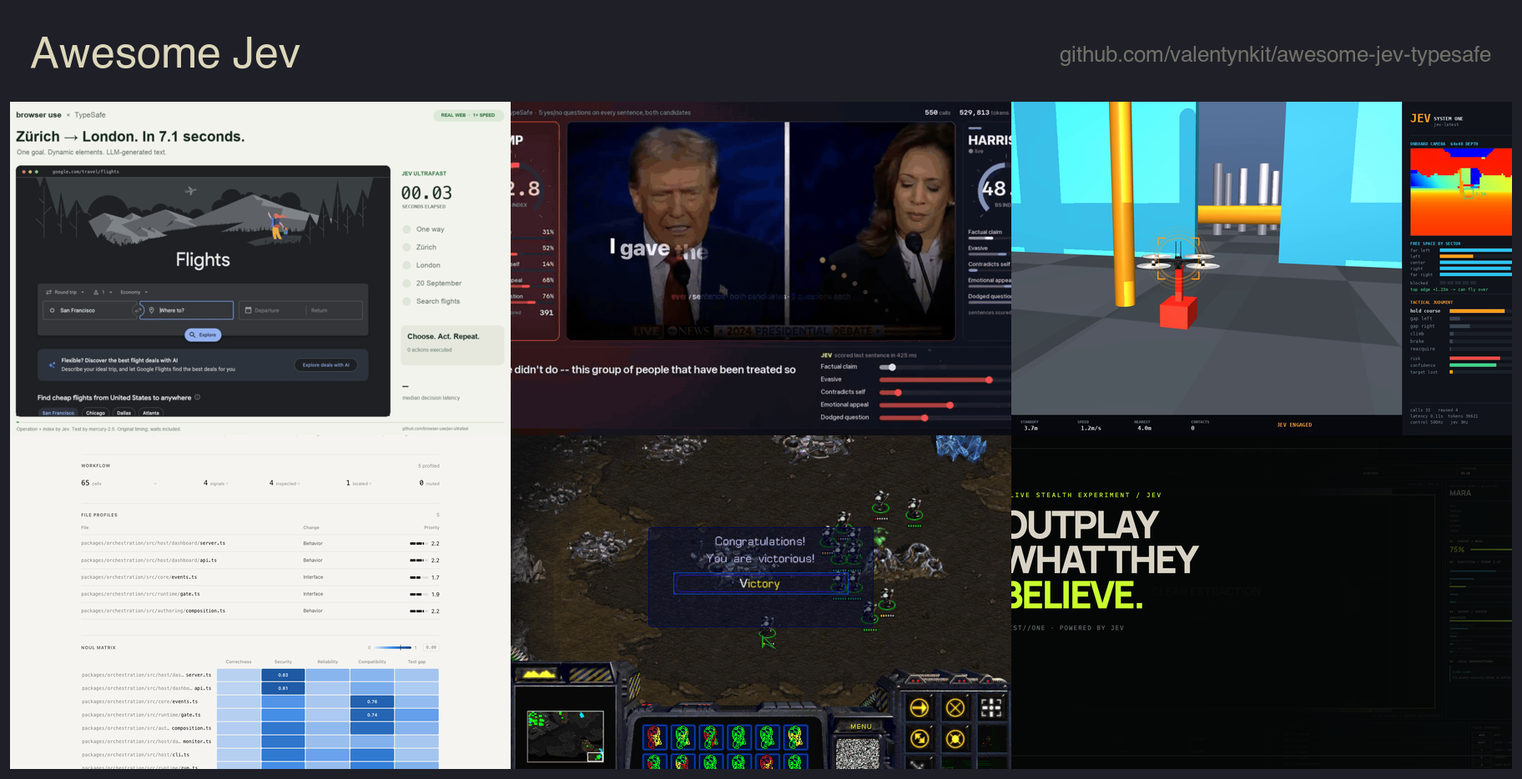
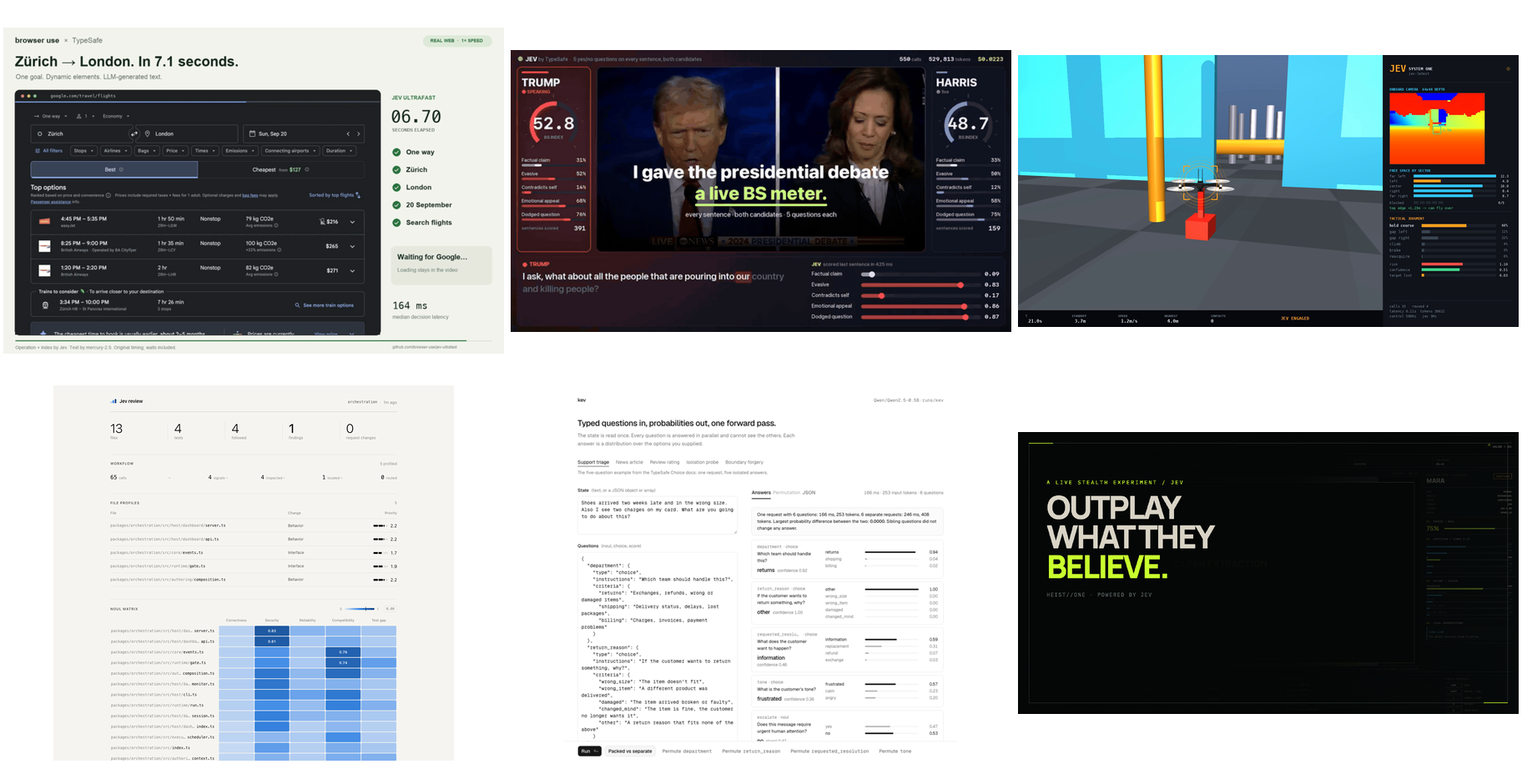
Add 60 entries from a third sweep, pin six more sections, refresh the hero
GitHub search, seventeen other lists, and the web since launch day. Notable
arrivals: kev, simple-jev and three more open replicas; tax-doc-classifier,
perch, jev-browser-use, vexjoy-agent; OpenRouter, Netlify and LiteLLM as
gateways; the archerhume architecture probe and the primeline pre-registered
test. Anything that met contributing.md went in, including the low-star
entries that five or more lists agree on.

Three repos moved: BunsDev's playground to the TypeSafeAI org, Jevbridge to
tacticocc, got-jev to jev-got. Nothing listed is dead or archived.

Routing, Data and ops, Safety, Applications, Finance and Command line get a
still each, all MIT or Apache, listed in media/sources.md. The hero swaps the
static StarCraft screen for the kev playground.

diff --git a/readme.md b/readme.md
@@ -12,7 +12,7 @@ Jev does not write. You hand it some state and a list of typed questions, and it
   </tr>
   <tr>
     <td align="center"><a href="https://github.com/devagrawal09/jev-review"><img src="media/jev-review.png" width="300" alt="jev-review dashboard"><br><sub>jev-review</sub></a></td>
-    <td align="center"><a href="https://github.com/phyous/tsai-sc"><img src="media/tsai-sc.png" width="300" alt="StarCraft victory screen"><br><sub>tsai-sc</sub></a></td>
+    <td align="center"><a href="https://github.com/jaredpalmer/kev"><img src="media/kev.png" width="300" alt="kev playground: six typed questions answered in one forward pass on a laptop"><br><sub>kev</sub></a></td>
     <td align="center"><a href="https://github.com/AbdelStark/heist-one"><img src="media/heist-one.png" width="300" alt="heist-one stealth game"><br><sub>heist-one</sub></a></td>
   </tr>
 </table>
@@ -63,6 +63,7 @@ Copied from the vendor's pages on 2026-09-18; every page is linked under Start h
 - Limits: 250,000 tokens per second, 1,200 requests per minute, 32k tokens per request, all subject to change during early access.
 - Latency: 70 to 500 ms end to end, vendor reported.
 - Training: RLCD, reinforcement learning for calibrated decisions. Weights and architecture are unpublished.
+- Also served by Vercel AI Gateway, Cloudflare Workers AI, OpenRouter (beta), and Netlify AI Gateway, none of which need the TypeSafe waitlist.
 
 ## Know before you build
 
@@ -94,6 +95,10 @@ Copied from the vendor's pages on 2026-09-18; every page is linked under Start h
 - [Console](https://console.typesafe.ai/) - Waitlist, API keys, and usage.
 - [Jev on Vercel AI Gateway](https://vercel.com/ai-gateway/models/jev) - Model id `typesafe-ai/jev`, billed through Vercel, no TypeSafe waitlist.
 - [Jev on Cloudflare Workers AI](https://developers.cloudflare.com/ai/models/typesafe/jev/) - Call `typesafe/jev` from a Worker through `env.AI.run`.
+- [Jev on OpenRouter](https://openrouter.ai/typesafe/jev-1.13) - Beta listing on the general-purpose gateway, model id `typesafe/jev-1.13`, billed on your OpenRouter key.
+- [Jev-verified cascade](https://openrouter.ai/docs/cookbook/evaluate-and-optimize/jev-verified-cascade) - OpenRouter cookbook: a cheap model answers, Jev checks the answer, only the failures escalate.
+- [Jev on Netlify AI Gateway](https://www.netlify.com/changelog/typesafe-jev-ai-gateway/) - Zero-config access from Netlify Functions, no separate TypeSafe key.
+- [LiteLLM pass-through](https://docs.litellm.ai/docs/pass_through/typesafe) - Route the System One endpoint through a LiteLLM proxy for key management and cost tracking; no streaming, since TypeSafe has none.
 - [Discord](https://discord.gg/typesafe) - Official server; builder demos live in the show-and-tell channel.
 
 ## Official SDKs and framework support
@@ -123,6 +128,10 @@ Copied from the vendor's pages on 2026-09-18; every page is linked under Start h
 - [limpet](https://github.com/noplan-inc/limpet) - A Stop hook that keeps the agent from stopping too early, judged against plain-language rules.
 - [jevwire](https://github.com/Brainwires/jevwire) - MCP server, embeddable decision model, and an escalate-only plugin that can make the harness stricter but never looser.
 - [jev-code](https://github.com/devagrawal09/jev-code) - Command-line toolkit that coding agents hand judgment-heavy work to, one typed Jev workflow per request.
+- [vexjoy-agent](https://github.com/notque/vexjoy-agent) - Agent toolkit whose `/d` command picks the specialist agent, skill, and pipeline with one Jev call, plus an optional Jev auto-compact plugin.
+- [save-token-jev](https://github.com/IAmUnbounded/save-token-jev-clean) - Compaction that asks Jev which tool calls still matter and keeps the rest verbatim, with adapters for Claude Code, Codex, OpenCode, and raw API transcripts.
+- [jev-pruner](https://github.com/tamaratran/jev-pruner) - Trims long Bash output with Jev after the command runs and before the model sees it; short output, errors, and structured formats pass untouched.
+- [jev-rules](https://github.com/EliaAlberti/jev-rules) - Scores your standing rules against each prompt and delivers only the ones that apply, once per session.
 
 ### Codex
 
@@ -139,6 +148,8 @@ Copied from the vendor's pages on 2026-09-18; every page is linked under Start h
 - [bicameral](https://github.com/AbdelStark/bicameral) - Hybrid harness for Pi: an LLM writes the code, Jev reflexes gate every call as allow, confirm, block, warn, or steer.
 - [pi-quiet-ask](https://github.com/HyunjunJeon/pi-quiet-ask) - Jev as the Pi coding agent's quiet decision layer.
 - [pi-typesafe-jev](https://github.com/legacybridge-tech/pi-typesafe-jev) - Pi extension exposing Jev judgments as five Pi tools.
+- [pi-typesafe](https://github.com/DevMortimer/pi-typesafe) - Batched evaluation tool, terminal playground, and a typed API for Pi extension authors.
+- [pi-heed](https://github.com/Nyarlathoteppppp/pi-heed) - Checks every side-effecting tool call against what you said earlier in the session, so "review only" still holds after compaction.
 
 ### Hermes
 
@@ -157,7 +168,8 @@ Copied from the vendor's pages on 2026-09-18; every page is linked under Start h
 - [jev-mcp by jkudish](https://github.com/jkudish/jev-mcp) - The first MCP server for Jev, and still the most linked.
 - [typesafe-mcp](https://github.com/itsmostafa/typesafe-mcp) - Go MCP connector.
 - [jev-mcp by blakestone-x](https://github.com/blakestone-x/jev-mcp) - Classify, score, check, match, and screen, with confidence on every answer.
-- [Jevbridge](https://github.com/gamesonrblx/Jevbridge) - ACP and MCP adapter that pairs Jev with any LLM for computer use and typed decisions.
+- [Jevbridge](https://github.com/tacticocc/Jevbridge) - ACP and MCP adapter that pairs Jev with any LLM for computer use and typed decisions.
+- [jev-eval-mcp](https://github.com/BYK/jev-mcp) - Eval-first MCP server: prototype a question, map it over many items, then measure variants against labeled examples with a threshold sweep.
 
 ### Skills for writing Jev code
 
@@ -165,6 +177,7 @@ Copied from the vendor's pages on 2026-09-18; every page is linked under Start h
 - [jev-system-architect](https://github.com/samtay32/jev-system-architect) - Finds the fuzzy judgment in a system and turns it into small Choice, Score, and Noul primitives.
 - [jev-judgment](https://github.com/HyunjunJeon/jev-judgment) - Sends a coding agent's closed judgments to Jev instead of the chat model.
 - [skills by fabricioctelles](https://github.com/fabricioctelles/skills) - Agent-skill directory that can score subjective evaluation criteria with Jev.
+- [Augustus](https://github.com/24601/Augustus) - Skill for deciding where a typed judgment belongs at all and what stays in code; a companion to the official skill, not a replacement.
 
 ## Browser and computer use
 
@@ -179,6 +192,9 @@ Copied from the vendor's pages on 2026-09-18; every page is linked under Start h
 - [jev-browser by tontoko](https://github.com/tontoko/jev-browser) - One grounded Jev and Playwright core behind a typed SDK, a persistent CLI, and an MCP server.
 - [jev-mobile](https://github.com/friedjof/jev-mobile) - Android sub-agent over USB running observe, normalize, decide, mutate, verify, with Jev deciding.
 - [jev-ego](https://github.com/romaluev/jev-ego) - Browser agent that spends one Jev request per step to pick the action.
+- [jev-browser-use](https://github.com/wy-coliney/jev-browser-use) - Codex skill and plugin where Jev handles navigation, clicks, and scrolling and Codex keeps typing and verification; reports browser steps 5 to 10 times faster.
+- [Jev-cu](https://github.com/Sac-Y/Jev-cu) - Codex computer use where Jev picks the element, action, completion, and risk from on-screen text, no screenshots sent; Chinese readme.
+- [JevScout](https://github.com/hqman/JevScout) - Job-hunting skill that drives Chrome over CDP and has Jev score every link and listing.
 
 ## Open models and replicas
 
@@ -208,6 +224,11 @@ None of these ship TypeSafe's weights. They reproduce the interface, the paralle
 - [von](https://github.com/wfzyx/von) - Non-autoregressive open decision model reporting under 15 ms locally, as a drop-in alternative to Jev.
 - [litjev](https://github.com/zhengxuyu/litjev) - Turns any off-the-shelf LLM into a Jev-style decision layer.
 - [open-jev](https://github.com/JoshuaSP/open-jev) - Typed JSON inference with DiffusionGemma, benchmarked against Jev.
+- [kev](https://github.com/jaredpalmer/kev) - LoRA adapter and readout head on Qwen2.5-0.5B that answers many typed questions in one prefill; trains in under two hours on a MacBook, held-out ECE 0.065, speaks the TypeSafe wire format.
+- [simple-jev](https://github.com/featherless-ai/simple-jev) - Reads next-token logits from any Hugging Face model for choice, rubric, and support questions; public demo API with no key.
+- [OpenJev by razorback16](https://github.com/razorback16/openjev) - Jev-compatible decision server on DiffusionGemma 26B through vLLM, images included, hosted free on [Codiv](https://codiv.ai).
+- [openjev by daseinlabs](https://github.com/daseinlabs/open-jev) - Prefills once and scores every option in one padded pass on Gemma 3 4B with MLX; plays Doom from the terminal in the demo.
+- [jeff by logan-markewich](https://github.com/logan-markewich/jeff) - Self-hosted System One API on the 400M GLiFormer, with benchmarks that say where it trails Jev.
 
 ## Code review and quality
 
@@ -221,14 +242,21 @@ None of these ship TypeSafe's weights. They reproduce the interface, the paralle
 - [commit-miner](https://github.com/devanshbatham/commit-miner) - Classifies commit diffs and messages: bug fixes, security fixes with CWEs, change types.
 - [jev-review-action](https://github.com/fatwang2/jev-review-action) - GitHub Action for submission review and PR classification with Jev, no text-generation model in the loop.
 - [jev-triage](https://github.com/cephalization/jev-triage) - Pulls large repositories and triages their issues with typed Jev questions.
+- [perch](https://github.com/lakeday-org/perch) - Semantic linting: rules in plain language, each file judged by Jev, run locally or in CI.
+- [jeff by Alurith](https://github.com/Alurith/jeff) - Read-only Go CLI that checks files against coded rules such as hidden side effects and weak error handling.
+- [jev-pref](https://github.com/doeixd/jev-pref) - Turns the preferences in your AGENTS.md into a linter that runs on code changes and reports back to the agent.
 
 ## Routing and gateways
+
+<a href="https://github.com/FirasSX914/Janus"><img src="media/janus.png" width="400" alt="Janus measuring on banking77 when routing to Jev beats a single model"></a>
 
 - [tiershift](https://github.com/iamvatsalpatel/tiershift) - Shifts every LLM call to the cheapest model that can handle it, policy in YAML, decision in about 180 ms.
 - [jev-router by prismhq](https://github.com/prismhq/jev-router) - LLM router on top of LiteLLM.
 - [agent-router](https://github.com/nidhi-singh02/agent-router) - Picks Cursor, Claude Code, Codex, or OpenCode plus model and effort for a task, then launches it.
 - [Janus](https://github.com/FirasSX914/Janus) - Measures on your data when Jev beats other models, then routes accordingly.
 - [hono-jev-router](https://github.com/yusukebe/hono-jev-router) - Route HTTP requests by meaning in Hono.
+- [JevRouter](https://github.com/BillionsBobby/JevRouter) - Models, subagents, skills, MCP tools, and CLIs as one candidate set; Jev picks, the router enforces permissions and risk; reports 44 percent first-five tool-call hits against 24 for DeepSeek on Toolathlon.
+- [jev-gateway](https://github.com/vinilana/jev-gateway) - Local gateway for Codex and Claude Code that sends the "which tool next" decision to Jev and everything else to your usual model.
 
 ## Search, reranking and RAG
 
@@ -238,8 +266,12 @@ None of these ship TypeSafe's weights. They reproduce the interface, the paralle
 - [llama-index-jev](https://github.com/WiktorB2004/llama-index-jev) - LlamaIndex reranker and router, cheaper than an LLM judge.
 - [jev-tree](https://github.com/reachjalil/jev-tree) - Recursive choice over a taxonomy, past the 255-option cap.
 - [neo4jev](https://github.com/jexp/neo4jev) - Walks a Neo4j graph by classifying neighbouring relationships.
+- [jev-sift](https://github.com/kbhuw/jev-sift) - MCP tool that scores a batch of files, URLs, or snippets for relevance so the agent opens only what matters.
+- [jev-scout](https://github.com/AkashPriyadarshii/jev-scout) - Rust CLI and MCP server that finds real, maintained repos and crates for a plain-language request, with Jev scoring the candidates.
 
 ## Data and ops
+
+<a href="https://github.com/choxos/jev-reviewer"><img src="media/jev-reviewer.png" width="600" alt="jev-reviewer: every answer is a quote with its file and place"></a>
 
 - [pg-jev](https://github.com/realZachi/pg-jev) - PostgreSQL extension that answers plain-language questions about your tables.
 - [vgi-typesafe](https://github.com/Query-farm/vgi-typesafe) - DuckDB worker that exposes choice, noul, and score as lateral-joinable table functions in SQL.
@@ -254,8 +286,14 @@ None of these ship TypeSafe's weights. They reproduce the interface, the paralle
 - [pg_typesafe](https://github.com/giuliosmall/pg_typesafe) - Pre-alpha PostgreSQL extension for categorical classification with Jev.
 - [jev-mode](https://github.com/ddfeyes/jev-mode) - Ticket triage and file tagging on a typed-judgment model; reports 78 percent fewer tokens and 96.1 percent accuracy against a 93.7 percent baseline.
 - [jev-reviewer](https://github.com/choxos/jev-reviewer) - Asks a clinical trial report for systematic-review data by voice, text, or a questions file; every answer is a verbatim quote with its file and place.
+- [tax-doc-classifier](https://github.com/kyotofin/tax-doc-classifier) - One request per page picks among 261 IRS forms and seven page kinds; reports 100 percent on its corpus at $0.001 a page, 34 times cheaper than the LLM pipeline it replaced.
+- [jevql](https://github.com/kylemclaren/jevql) - Semantic SQL for PostgreSQL, with Jev answering the predicates.
+- [duckdb-jev](https://github.com/colliber/duckdb-jev) - DuckDB extension that asks a question of every row and returns a real SQL type.
+- [invalidate](https://github.com/chopratejas/invalidate) - Gives every stored agent memory a lease and asks Jev whether new evidence ends it; [live demo](https://invalidate-playground.vercel.app).
 
 ## Safety, moderation and verification
+
+<a href="https://github.com/leepokai/jev-guard"><img src="media/jev-guard.jpg" width="600" alt="jev-guard: every tool call risk-scored as allow, ask, or deny before it runs"></a>
 
 - [jev-shield](https://github.com/caiovicentino/jev-shield) - Semantic MCP firewall that screens every tool call, result, and description; reports 94 percent block recall at about $0.00002 a check.
 - [jev-guard](https://github.com/leepokai/jev-guard) - Auto mode for Claude Code, Codex, Cursor, Gemini CLI, Pi, and OpenCode: risk-scores each tool call as deny, ask, or allow and flags prompt injection in results.
@@ -266,8 +304,12 @@ None of these ship TypeSafe's weights. They reproduce the interface, the paralle
 - [riff](https://github.com/scale-venture-partners/riff) - Ruff-style rule codes for writing.
 - [jev-secret-detection](https://github.com/teyhouse/jev-secret-detection) - Measures how well Jev spots real credentials in file snippets, with the hard config-shaped cases scored separately.
 - [jev-audio-beeper](https://github.com/santos-sanz/jev-audio-beeper) - Low-latency audio censorship proof of concept: Jev typed decisions drive ffmpeg.
+- [is-malicious](https://github.com/luantak/is-malicious) - Scans a codebase for hidden or data-stealing behavior before you run it; a clean report is not proof, and it says so.
+- [tripwire](https://github.com/noelzappy/tripwire) - AI SDK middleware and proxy that runs seven Jev checks on every LLM response before the user sees it; no accuracy numbers yet, and it says so.
 
 ## Applications and extensions
+
+<a href="https://github.com/sriganesh/jevibe-check"><img src="media/jevibe-check.png" width="300" alt="jevibe-check labelling the tone of every Bluesky post in the feed"></a>
 
 - [unclutter](https://github.com/kitze/unclutter) - Browser extension that removes page clutter with reusable template rules.
 - [typesafe-adblock](https://github.com/realZachi/typesafe-adblock) - Chrome extension that asks "is this element an ad?" per DOM node; a toy, and it says so.
@@ -281,10 +323,12 @@ None of these ship TypeSafe's weights. They reproduce the interface, the paralle
 - [should-ai-kill-us-all](https://github.com/hellogumbo/should-ai-kill-us-all) - Asks Jev the question every ten minutes, using the actual headlines.
 - [Privacy Facts](https://github.com/thenewpotato/privacy-facts) - Turns privacy policies into nutrition-style labels with plain-language answers, Jev confidence scores, and suggested source clauses.
 - [jev-voice-control](https://github.com/chris-wozniczek/jev-voice-control) - Menu-bar Swift app turning spoken commands into Jev typed decisions and macOS actions.
-- [got-jev](https://github.com/phureewat29/got-jev) - Game of Thrones roleplay where a story model writes each scene and Jev answers five typed questions that drive the header, soundtrack, art, and next prompt.
+- [jev-got](https://github.com/phureewat29/jev-got) - Game of Thrones roleplay where a story model writes each scene and Jev answers five typed questions that drive the header, soundtrack, art, and next prompt.
 - [typesafe-jev](https://github.com/gtaras7/typesafe-jev) - Jev experiments starting with a local CV-screening workbench, each with its own measured results.
 - [super-jev](https://github.com/kevthetech143/super-jev) - Small harness connecting evidence, Jev judgments, permitted actions, and verified outcomes.
 - [safer-with-jev](https://github.com/andrelandgraf/safer-with-jev) - Neon Function proxy for the Neon AI Gateway with Jev routing in front.
+- [Sponsor Skip](https://github.com/trungdq88/youtube-sponsor-detection) - Chrome extension that finds sponsor reads from the transcript or live audio and jumps past them; code owns every timestamp, under a cent an hour in transcript mode.
+- [jev-seo](https://github.com/AkashPriyadarshii/jev-seo) - Rust CLI and MCP server for SEO and GEO checks over DuckDuckGo results, scored by Jev.
 
 ## Games, robotics and simulation
 
@@ -302,12 +346,17 @@ None of these ship TypeSafe's weights. They reproduce the interface, the paralle
 - [jev-askable-arm](https://github.com/TarunTomar122/jev-askable-arm) - Zero-shot English goals on a simulated Franka arm; Jev chains hardcoded primitives.
 - [quackd](https://github.com/rokbenko/quackd) - Command line for LLM-piloted robots across seven bodies, with an optional Jev stepper that picks among calls without ever writing a joint angle.
 - [snake-jev](https://github.com/siroccomask/snake-jev) - Snake controlled by parallel Jev assessments, one API call per tick.
+- [JevPilot](https://github.com/standardagents/jevpilot) - Three.js driving simulator where Jev picks steering and speed from sampled paths up to four times a second; [drive it](https://jevpilot.standardagents.ai).
+- [live-jev](https://github.com/vinilana/live-jev) - Top-down car in the browser sending four typed questions every 200 ms, with confidence-gated overrides in code.
 
 ## Finance and trading
+
+<a href="https://github.com/zadescoxp/Jev-Trades"><img src="media/jev-trades.png" width="600" alt="Jev-Trades paper trading ETH with a confidence on every decision"></a>
 
 - [jev-trader](https://github.com/jarrodwatts/jev-trader) - One trade decision every Monad block, on Kuru MON-USDC, about 300 ms each.
 - [trade-jev](https://github.com/justinhe16/trade-jev) - Backtests Jev as a buy, sell, or hold trader on NQ order-book data.
 - [Jev-Trades](https://github.com/zadescoxp/Jev-Trades) - Crypto trading bot with backtesting.
+- [jev-trade](https://github.com/aowang-ai/jev-trade) - Live Jev trader on Hyperliquid.
 
 ## Benchmarks, evals and calibration
 
@@ -330,12 +379,17 @@ None of these ship TypeSafe's weights. They reproduce the interface, the paralle
 - [jev-eval-agent](https://github.com/vinilana/jev-eval-agent) - Personal-assistant agent with 100 mocked tools, measuring how many steps a Jev-gated agent needs.
 - [jev-synergy-screening](https://github.com/PistachioAIHQ/jev-synergy-screening) - Choice and Noul questions scored against ASReview SYNERGY gold labels for abstract screening.
 - [jev-orderby-bench](https://github.com/yodablocks/jev-orderby-bench) - Measures whether ORDER BY over a Jev probability is defensible: pairwise inversion, Score ordinality against a human grade, calibration, and wording invariants under a pre-registered gate; passes on 20 Newsgroups topics, fails four of six conditions on Amazon ESCI product relevance, and shows that a 40-row batched state through a DuckDB extension fails the ranking gate one row per request passes.
+- [cultivar](https://github.com/pinecone-io/cultivar) - Pinecone's skill-testing CLI, with a Jev grading backend it reports at about 30 times cheaper than the LLM grader.
+- [jev-eval by 4esv](https://github.com/4esv/jev-eval) - Jev against GPT-5.6 Terra on three labeled tasks: equal on the easy ones, 6.7 points lower on 77-way routing, 5 times faster, 41 to 50 times cheaper.
+- [jev-benchmark by themsquared](https://github.com/themsquared/jev-benchmark) - Tool-call risk classification with the run-to-run variance reported; every wrong answer came with hedged confidence.
+- [jev-research-eval](https://github.com/jgridifier/jev-research-eval) - Reproducible harness over a pinned jev-ultrafast commit, with baseline and stress suites.
+- [jev-playground by hegargarcia](https://github.com/hegargarcia/jev-playground) - Jev against other models in games with explicit states, legal actions, and a measurable outcome.
 
 ## Playgrounds and demos
 
-<a href="https://github.com/BunsDev/typesafe-ai-playground"><img src="media/typesafe-ai-playground.jpg" width="600" alt="typesafe-ai-playground A/B comparison view"></a>
+<a href="https://github.com/TypeSafeAI/typesafe-playground"><img src="media/typesafe-ai-playground.jpg" width="600" alt="typesafe-playground A/B comparison view"></a>
 
-- [typesafe-ai-playground by BunsDev](https://github.com/BunsDev/typesafe-ai-playground) - 110 use cases, games, and model challenges with editable prompts and A/B comparisons.
+- [typesafe-playground by TypeSafeAI](https://github.com/TypeSafeAI/typesafe-playground) - 110 use cases, games, and model challenges with editable prompts and A/B comparisons; a community org, not the vendor, formerly under BunsDev.
 - [typesafe-playground by kavehmz](https://github.com/kavehmz/typesafe-playground) - From support routing to a 3D driving simulation with visible sensor inputs.
 - [jev-experiments](https://github.com/dabit3/jev-experiments) - Nader Dabit's grab bag of small Jev experiments.
 - [TypeSafe Typewriter](https://typesafe-demo.val.run/) - Sixteen typed judgments update as you type, on Val Town.
@@ -353,8 +407,11 @@ None of these ship TypeSafe's weights. They reproduce the interface, the paralle
 - [Jev Classifier](https://jevclassifier.vercel.app) - Hosted demo filing posts by type, quality, sentiment, and tone.
 - [Jev Guard demo](https://guard-jev.vercel.app) - Hosted comment-moderation playground.
 - [Companion](https://jev-demo.vercel.app) - Hosted robot interface answering nine typed questions per turn to decide act, ask, or shrug, no generated text.
+- [Jev System One](https://github.com/haseeb-heaven/jev-system-one) - Terminal interface where OpenAI answers and Jev separately scores relevance, reliability, and quality.
 
 ## Command line
+
+<a href="https://github.com/shiftynick/jev-axi"><img src="media/jev-axi.png" width="600" alt="jev-axi blocking a curl-pipe-bash and allowing pnpm test"></a>
 
 - [jev-axi](https://github.com/shiftynick/jev-axi) - Shell verbs for agents and humans: pick, rate, check, rank, triage, guard.
 - [semdecide](https://github.com/sharziki/semdecide) - Typed semantic decisions for Unix pipelines and CI.
@@ -364,6 +421,7 @@ None of these ship TypeSafe's weights. They reproduce the interface, the paralle
 - [jgrep](https://github.com/keltokhy/jgrep) - Prints the lines that fit a plain-English description, streaming from `tail -f` under a spend cap, and reports F1 0.91 on SMS spam against 0.72 for a keyword grep.
 - [jev-cli by jtsang4](https://github.com/jtsang4/jev-cli) - Typed questions in, structured JSON answers out.
 - [jev-cli by tumf](https://github.com/tumf/jev-cli) - Dependency-free Python CLI wrapping Choice, Score, and Noul.
+- [jevctl](https://github.com/Nasrallah-AL/jev-cli) - npm CLI with the key in the OS keychain; typed judgments from the shell.
 
 ## Community clients
 
@@ -390,6 +448,12 @@ None of these ship TypeSafe's weights. They reproduce the interface, the paralle
 - [jev-go by Stumble](https://github.com/Stumble/jev-go) - Go client for Jev.
 - [typesafe-ai-rails](https://github.com/GenieRobot/typesafe-ai-rails) - Rails integration built on the community Ruby gem.
 - [typesafe_sdk by nshkrdotcom](https://github.com/nshkrdotcom/typesafe_sdk) - Elixir port of the TypeScript AI SDK with a TypeSafe provider.
+- [ruby_decision_model](https://github.com/obie/ruby_decision_model) - Ruby client for decision models with OpenRouter and TypeSafe providers behind one interface, stdlib only.
+- [zod-jev](https://github.com/jomatsu/zod-jev) - Zod 4 schemas with semantic rules: shape checks stay in Zod, meaning checks go to Jev in one request and come back as Zod issues.
+- [typesafeai-dotnet-sdk](https://github.com/saibimajdi/typesafeai-dotnet-sdk) - Community .NET SDK with typed Noul, Choice, and Score questions.
+- [typesafe-sdk-go by Tangerg](https://github.com/Tangerg/typesafe-sdk-go) - Go SDK with no third-party dependencies.
+- [swift-typesafe](https://github.com/ainame/swift-typesafe) - Swift 6.4 SDK following the Python SDK's API, on Apple platforms and Linux.
+- [typesafe-sdk-php](https://github.com/Butochnikov/typesafe-sdk-php) - PHP client with sync calls, Guzzle promises, and PSR-3 logging.
 
 ## Articles and talks
 
@@ -405,6 +469,8 @@ None of these ship TypeSafe's weights. They reproduce the interface, the paralle
 - [DataCamp](https://www.datacamp.com/blog/system-one-models-jev) - Third-party explainer of the primitives, pricing, and vendor evals.
 - [How does Jev work? RLCD and parallel inference](https://www.explainx.ai/blog/how-does-jev-work-rlcd-system-one-model-explained-2026) - What is public about the training method.
 - [TypeSafe Jev: the first decision-only model class](https://www.developersdigest.tech/blog/typesafe-jev-system-one-models-release-guide-2026) - Release-week technical roundup: API, evals, adapter, and skill.
+- [TechCrunch](https://techcrunch.com/2026/09/18/a-new-kind-of-ai-model-from-a-chatgpt-inventor-is-thrilling-developers/) - Two days in: demand briefly took the API down, and Almeida on not wanting to be a frontier lab.
+- [Forkast](https://forkast.news/typesafe-ais-jev-is-not-an-llm-and-that-may-be-the-point/) - The business angle, with the reported valuation and Every's speed and cost numbers.
 
 ### Independent measurements
 
@@ -416,6 +482,8 @@ None of these ship TypeSafe's weights. They reproduce the interface, the paralle
 - [Jev, Sorted](https://pearpages.com/blog/2026/09/16/jev-sorted-what-typesafes-system-one-model-actually-is-and-what-is-still-just-a-claim) - Which launch claims survive a reading of the primary sources.
 - [Typed decisions, not chat](https://warmersun.com/jev/) - Separates the published claims from what public evidence establishes.
 - [TypeSafeのJevを正しく驚く](https://zenn.dev/nwn/articles/824026c76116e0) - Japanese; reproduces the logit shortcut on Gemma and compares against LLMs on the Mario harness.
+- [TypeSafe Jev vs Claude Code: 4 models, 2 real jobs](https://primeline.cc/blog/typesafe-jev-pre-registered-test) - Pre-registered test of about 9,750 calls: calibration error by question type, Jev ahead on commit classification and behind on knowledge-base filing, abstention closing the gap.
+- [Jev, three days in](https://aiwithmike.substack.com/p/jev-three-days-in-what-is-known-what) - What is known, what is guessed, and what it is good for, with the independent numbers pulled together.
 
 ### Essays and threads
 
@@ -427,6 +495,9 @@ None of these ship TypeSafe's weights. They reproduce the interface, the paralle
 - [He says he co-invented ChatGPT. His new AI will not write a word](https://dev.to/gabrielanhaia/he-says-he-co-invented-chatgpt-his-new-ai-jev-wont-write-a-word-e3c) - Walkthrough of the Vercel AI SDK integration.
 - [Testing Jev for Pi extensions](https://reddit.com/r/PiCodingAgent/comments/1whsav6/anyone_else_testing_out_typesafe_ais_new_system/) - Builders using Jev as a tool-use safety layer.
 - [jev 同士に五目並べで対戦させた](https://zenn.dev/mizchi/articles/jev-plays-gomoku) - Japanese; Jev against Jev at gomoku, with source and timing logs.
+- [Jev's Architecture Unmasked](https://archerhume.com/posts/jevs-architecture-unmasked/) - A 10,000-call probe that reconstructs a shared-state, parallel-branch architecture; kev above is built from it.
+- [OpenJev on Hacker News](https://news.ycombinator.com/item?id=49752041) - Whether reading logits directly is new at all, argued at length.
+- [Open-sourced Jev architecture last year](https://news.ycombinator.com/item?id=49736660) - A prior-art claim for non-autoregressive typed decisions, and the counter that zero-shot generality is the actual difference.
 
 ## Other lists
 
@@ -464,4 +535,4 @@ Read [contributing.md](contributing.md) first. Removal is as welcome as addition
 
 ## Footnotes
 
-Gallery and section images belong to the linked projects; licenses and original paths are in [media/sources.md](media/sources.md). This list is independent and not affiliated with TypeSafe AI. Prices, limits, and model aliases are copied from the vendor's pages on 2026-09-18 and will drift.
+Gallery and section images belong to the linked projects; licenses and original paths are in [media/sources.md](media/sources.md). This list is independent and not affiliated with TypeSafe AI. Prices, limits, and model aliases are copied from the vendor's pages on 2026-09-18, rechecked 2026-09-19, and will drift.

diff --git a/media/sources.md b/media/sources.md
@@ -8,15 +8,21 @@ Every file in this directory is copied from the project it illustrates, under th
 | `jevmeter.png` | [ChetasLua/jevmeter](https://github.com/ChetasLua/jevmeter) | MIT | one frame of `docs/demo-hook.gif` |
 | `jev-drone.png` | [RomanSlack/jev-drone](https://github.com/RomanSlack/jev-drone) | MIT | `docs/chase.png` |
 | `jev-review.png` | [devagrawal09/jev-review](https://github.com/devagrawal09/jev-review) | MIT | `docs/dashboard.png` |
-| `tsai-sc.png` | [phyous/tsai-sc](https://github.com/phyous/tsai-sc) | MIT | release asset `v0.1.0/victory-screen.png` |
 | `heist-one.png` | [AbdelStark/heist-one](https://github.com/AbdelStark/heist-one) | MIT | `apps/video/out/heist-one-thumbnail.png` |
 | `heist-one-gameplay.png` | [AbdelStark/heist-one](https://github.com/AbdelStark/heist-one) | MIT | one frame of `apps/video/public/gameplay-live.mp4` |
 | `pi-warden.png` | [DevMortimer/pi-warden](https://github.com/DevMortimer/pi-warden) | MIT | `docs/preview.png` |
 | `mobile-jev.jpg` | [droidrun/mobile-jev](https://github.com/droidrun/mobile-jev) | MIT | `docs/media/uber-demo.jpg` |
 | `semif.png` | [TheoLeeCJ/SemIf](https://github.com/TheoLeeCJ/SemIf) | MIT | `assets/semif-no-waitlist.png` |
 | `jevcal.png` | [abhixhek/jevcal](https://github.com/abhixhek/jevcal) | MIT | `docs/report.png` |
-| `typesafe-ai-playground.jpg` | [BunsDev/typesafe-ai-playground](https://github.com/BunsDev/typesafe-ai-playground) | MIT | `docs/screenshots/comparison.jpg` |
+| `typesafe-ai-playground.jpg` | [TypeSafeAI/typesafe-playground](https://github.com/TypeSafeAI/typesafe-playground) | MIT | `docs/screenshots/comparison.jpg`, copied while the repo was under BunsDev |
+| `kev.png` | [jaredpalmer/kev](https://github.com/jaredpalmer/kev) | Apache-2.0 | `docs/playground.png` |
+| `janus.png` | [FirasSX914/Janus](https://github.com/FirasSX914/Janus) | MIT | one frame of `results/figures/janus_demo.gif` |
+| `jev-reviewer.png` | [choxos/jev-reviewer](https://github.com/choxos/jev-reviewer) | MIT | one frame of `documentation/tour.gif` |
+| `jev-guard.jpg` | [leepokai/jev-guard](https://github.com/leepokai/jev-guard) | MIT | `assets/launch-poster.jpg` |
+| `jevibe-check.png` | [sriganesh/jevibe-check](https://github.com/sriganesh/jevibe-check) | MIT | one frame of `docs/jevibecheck.gif` |
+| `jev-trades.png` | [zadescoxp/Jev-Trades](https://github.com/zadescoxp/Jev-Trades) | Apache-2.0 | one frame of `assets/Jev_making_trade.gif` |
+| `jev-axi.png` | [shiftynick/jev-axi](https://github.com/shiftynick/jev-axi) | MIT | one frame of `scripts/demo/safety.gif`, cropped to the terminal text |
 
-Copied 2026-09-18, resized to 600 to 800 px wide.
+Copied 2026-09-18 and 2026-09-19, resized to 600 to 800 px wide.
 
 `hero.png` is a stitched contact sheet of the six gallery tiles, for sharing the list.
